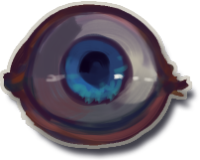
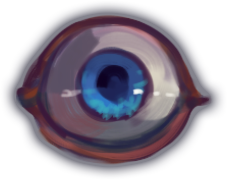
update: eye assets

diff --git a/src/js/object/ui/eye_button.js b/src/js/object/ui/eye_button.js
@@ -29,37 +29,36 @@ ObjectEye.prototype.isCollision = function() {
 	return this.core.input_manager.isLeftClickPush() ? true : false;
 };
 
-
-
 ObjectEye.prototype.setPosition = function(){
-	this.x(this.scene.width - 48 - 20);
-	this.y(this.scene.height - 70);
+	this.x(1320 * 2/3);
+	this.y(980 * 2/3);
+
 };
 
 ObjectEye.prototype.collisionWidth = function(){
-	return 200;
+	return 150;
 };
 
 ObjectEye.prototype.collisionHeight = function(){
-	return 160;
+	return 100;
 };
 
 ObjectEye.prototype.spriteName = function(){
-	return "eye";
+	return "eye1";
 };
 ObjectEye.prototype.spriteIndices = function(){
 	return [{x: 0, y: 0}];
 };
 ObjectEye.prototype.spriteWidth = function(){
-	return 260;
+	return 227;
 };
 ObjectEye.prototype.spriteHeight = function(){
 	return 180;
 };
 ObjectEye.prototype.scaleHeight = function(){
-	return 0.8;
+	return 2/3;
 };
 ObjectEye.prototype.scaleWidth = function(){
-	return 0.8;
+	return 2/3;
 };
 module.exports = ObjectEye;

diff --git a/src/js/config/assets.js b/src/js/config/assets.js
@@ -94,7 +94,10 @@ AssetsConfig.images = {
 	// アイテムボタン
 	tool: "./image/ui-common-btn-tool-1.png",
 	// 第三の目
-	eye:  "./image/ui-common-btn-eye-1.png",
+	eye1:  "./image/ui-common-btn-eye-1.png",
+	eye2:  "./image/ui-common-btn-eye-2.png",
+	eye3:  "./image/ui-common-btn-eye-3.png",
+	eye4:  "./image/ui-common-btn-eye-4.png",
 
 	// ふきだし
 	fukidashi:  "./image/ui-common-frame-talk1-brn.png",
